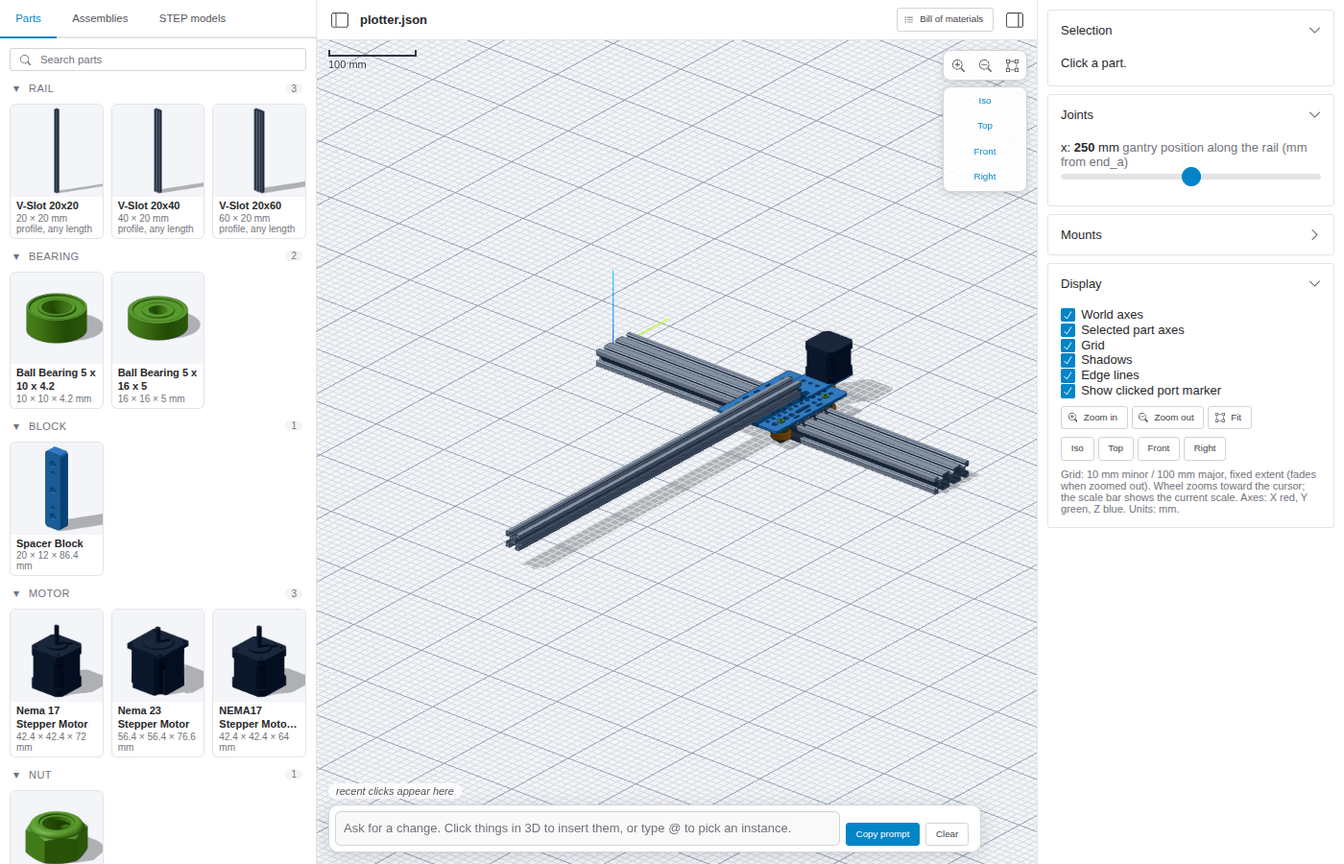
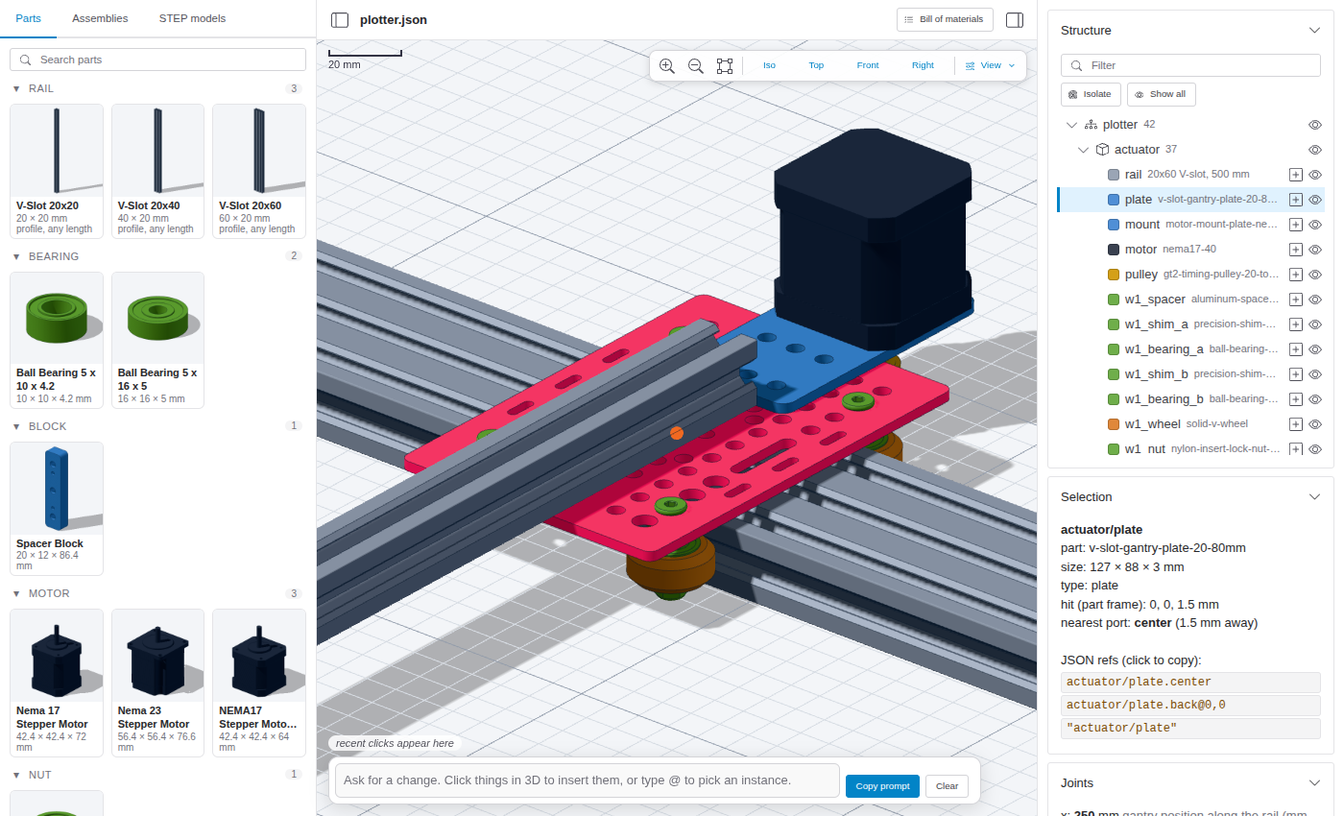
Add assembly structure tree and move display options to the 3D toolbar
- Right panel: Structure tree (assembly > sub-assemblies > instances,
  fasteners grouped) synced with 3D selection and hover, with hide /
  isolate / filter and insert-in-prompt. The panel now holds only
  Structure, Selection, Joints and Mounts.
- 3D view toolbar: zoom, fit, view presets and a View dropdown with the
  display toggles (saved in localStorage).
- README screenshot refreshed; HANDOFF notes on the SCRIBE pen lifter
  and updated next steps.

diff --git a/viewer/buildmode.js b/viewer/buildmode.js
@@ -47,7 +47,10 @@ const edgeTol = () => Math.max(4, Math.min(10, 6 / camera.zoom)), portTol = () =
       $('b-err').textContent = 'ERROR: ' + e.message; if (!(e instanceof AsmError)) console.error(e); return;
     }
     const names = res.instances.map((i) => i.name).join('|');
+    let reselect = null;
     if (rebuild.names !== names || !meshes.size) {
+      reselect = selected?.userData.name || null; // keep the selection where the name still exists
+      snapshotTree();
       for (const m of [...group.children]) group.remove(m);
       meshes = new Map();
       for (const inst of res.instances) {
@@ -56,10 +59,13 @@ const edgeTol = () => Math.max(4, Math.min(10, 6 / camera.zoom)), portTol = () =
         group.add(mesh); meshes.set(inst.name, mesh);
       }
       rebuild.names = names; selected = null;
+      for (const n of [...hidden]) if (!meshes.has(n)) hidden.delete(n);
+      buildTree(); applyVisibility();
     }
     for (const inst of res.instances) { const m = meshes.get(inst.name); m.matrix.copy(toMatrix(inst.M)); m.matrixWorldNeedsUpdate = true; }
     group.updateMatrixWorld(true);
     renderPanel(); hover(null); prompt.refresh();
+    if (reselect && meshes.has(reselect)) show({ object: meshes.get(reselect), point: centerOf(res.instances.find((i) => i.name === reselect)) }, true);
     const box = new THREE.Box3().setFromObject(group); fitScene(box);
     if (!keepCamera || framed !== file) { frame(box); framed = file; }
   }
@@ -129,8 +135,8 @@ const edgeTol = () => Math.max(4, Math.min(10, 6 / camera.zoom)), portTol = () =
   }
   function show(hit, silent) {
     if (selected) selected.material = matFor(res.instances.find((i) => i.name === selected.userData.name).def.type);
-    if (!hit) { selected = null; marker.visible = false; edgeLine.visible = false; $('info').textContent = 'Click a part.'; return; }
-    selected = hit.object; selected.material = highlight;
+    if (!hit) { selected = null; marker.visible = false; edgeLine.visible = false; $('info').textContent = 'Click a part.'; treeSelect(null); return; }
+    selected = hit.object; selected.material = highlight; treeSelect(selected.userData.name);
     const d = describeHit(hit), copy = (s) => `<div class="copy" title="click to copy">${s}</div>`;
     $('info').innerHTML = `<b>${d.name}</b><br>part: ${d.def.slug}<br>size: ${dimsText(d.def.dims)}<br>type: ${d.def.type}${d.def.profile ? ` (${d.def.profile}${d.def.length ? `, parametric, cut ${d.def.length} mm` : ' library mesh'})` : ''}<br>` +
       `hit (part frame): ${d.p.map(f2).join(', ')} mm<br>` +
@@ -183,6 +189,7 @@ const edgeTol = () => Math.max(4, Math.min(10, 6 / camera.zoom)), portTol = () =
     if (r.edge) { hoverLine.geometry.setFromPoints(r.edge.map((q) => new THREE.Vector3(...q))); hoverLine.visible = true; }
     else if (r.point) { hoverMarker.position.set(...r.point); hoverMarker.scale.setScalar(2.2); hoverMarker.visible = true; }
   }
+  const centerOf = (inst) => { const { min, max } = inst.def.bbox || { min: [0, 0, 0], max: [0, 0, 0] }; return new THREE.Vector3(...m4.point(inst.M, [0, 1, 2].map((k) => (min[k] + max[k]) / 2))); };
   const flyTo = (box) => stage.flyTo(box, 40);
   function focus(ref) {
     const r = resolveRef(ref); if (!r) return;
@@ -191,8 +198,7 @@ const edgeTol = () => Math.max(4, Math.min(10, 6 / camera.zoom)), portTol = () =
     else if (r.point) box.expandByPoint(new THREE.Vector3(...r.point));
     else box.setFromObject(r.mesh);
     if (r.point) box.expandByScalar(15);
-    let pt = r.point ? new THREE.Vector3(...r.point) : box.getCenter(new THREE.Vector3());
-    if (!r.point) { const { min, max } = r.inst.def.bbox || { min: [0, 0, 0], max: [0, 0, 0] }; pt = new THREE.Vector3(...m4.point(r.inst.M, [0, 1, 2].map((k) => (min[k] + max[k]) / 2))); }
+    const pt = r.point ? new THREE.Vector3(...r.point) : centerOf(r.inst);
     hover(null);
     show({ object: r.mesh, point: pt }, true);
     window.__viewer.lastFocus = ref;
@@ -200,7 +206,7 @@ const edgeTol = () => Math.max(4, Math.min(10, 6 / camera.zoom)), portTol = () =
   }
   const prompt = createPrompt({ $, getResult: () => res, getFile: () => file, hooks: { resolve: resolveRef, hover, focus } });
   const ray = new THREE.Raycaster();
-  const hitAt = (cx, cy) => { ray.setFromCamera(ndc(cx, cy), camera); return ray.intersectObjects(group.children, false)[0]; };
+  const hitAt = (cx, cy) => { ray.setFromCamera(ndc(cx, cy), camera); return ray.intersectObjects(group.children.filter((m) => m.visible), false)[0]; }; // hidden pieces are not pickable
   addEventListener('pointermove', (e) => {
     const tip = $('tip');
     if (!active || e.target !== renderer.domElement || !res) { tip.hidden = true; return; }
@@ -208,6 +214,108 @@ const edgeTol = () => Math.max(4, Math.min(10, 6 / camera.zoom)), portTol = () =
     if (!h) { tip.hidden = true; return; }
     tip.hidden = false; tip.textContent = h.object.userData.name; tip.style.left = e.clientX + 12 + 'px'; tip.style.top = e.clientY + 12 + 'px';
   });
+
+  // ---- Structure tree: root assembly > sub-assemblies > instances (generated fasteners in a collapsed group) ----
+  const hidden = new Set();          // hidden instance names (kept across live reloads where the name still exists)
+  const expState = new Map();        // tree key -> expanded
+  const items = new Map(), groupNames = new Map(); // key -> sl-tree-item ; group key -> instance names below it
+  const treeEl = $('b-tree'), esc = (s) => String(s).replace(/[&<>"]/g, (c) => ({ '&': '&amp;', '<': '&lt;', '>': '&gt;', '"': '&quot;' }[c]));
+  let syncing = false, hoverKey = null;
+  const hex = (t) => '#' + new THREE.Color(colorOfType(t)).getHexString();
+  const detailOf = (d) => (d.profile ? `${d.profile} V-slot, ${+(d.length ?? d.dims[2]).toFixed(1)} mm` : d.slug);
+  const ACT = (act, icon, tip) => `<sl-icon-button name="${icon}" data-act="${act}" label="${tip}" title="${tip}"></sl-icon-button>`;
+  function snapshotTree() { if (treeEl.dataset.filtering) return; for (const [k, it] of items) if (it.dataset.group) expState.set(k, it.expanded); }
+  function buildTree() {
+    items.clear(); groupNames.clear();
+    const mountNames = new Set(res.mounts.map((m) => m.name));
+    const root = { key: 'g:root', label: file.replace(/\.json$/, ''), kids: [], root: true }, fast = { key: 'g:fasteners', label: 'Fasteners', kids: [], dflt: false, note: 'generated screws and tee nuts' };
+    const groups = new Map([['', root]]);
+    const groupAt = (path) => { // path of segments
+      const k = path.join('/'); if (groups.has(k)) return groups.get(k);
+      const parent = groupAt(path.slice(0, -1)), g = { key: 'g:' + k, label: path[path.length - 1], kids: [] };
+      groups.set(k, g); parent.kids.push(g); return g;
+    };
+    for (const inst of res.instances) {
+      const seg = inst.name.split('/'), dir = seg.slice(0, -1).join('/');
+      (mountNames.has(dir) ? fast : groupAt(seg.slice(0, -1))).kids.push({ key: inst.name, inst, label: seg[seg.length - 1] });
+    }
+    if (fast.kids.length) root.kids.push(fast);
+    const names = (n) => (n.inst ? [n.key] : n.kids.flatMap(names));
+    const html = (n) => {
+      if (n.inst) {
+        const d = n.inst.def;
+        return `<sl-tree-item data-key="${esc(n.key)}" data-leaf="1"><span class="tn"><i class="sw" style="background:${hex(d.type)}"></i><span class="nm">${esc(n.label)}</span><span class="dt">${esc(detailOf(d))}</span><span class="ta">${ACT('ins', 'plus-square', 'Insert in prompt')}${ACT('eye', 'eye', 'Hide / show (shift-click: isolate)')}</span></span></sl-tree-item>`;
+      }
+      groupNames.set(n.key, names(n));
+      const open = expState.has(n.key) ? expState.get(n.key) : n.dflt !== false;
+      return `<sl-tree-item data-key="${n.key}" data-group="1" ${open ? 'expanded' : ''}><span class="tn"><sl-icon name="${n.root ? 'diagram-3' : 'box'}"></sl-icon><span class="nm">${esc(n.label)}</span><span class="dt">${n.note ? esc(n.note) + ', ' : ''}${groupNames.get(n.key).length}</span><span class="ta">${ACT('eye', 'eye', 'Hide / show this group (shift-click: isolate)')}</span></span>${n.kids.map(html).join('')}</sl-tree-item>`;
+    };
+    syncing = true;
+    treeEl.innerHTML = html(root);
+    for (const it of treeEl.querySelectorAll('sl-tree-item')) items.set(it.dataset.key, it);
+    syncing = false;
+    filterTree();
+  }
+  function applyVisibility() {
+    for (const [n, m] of meshes) m.visible = !hidden.has(n);
+    stage.refreshShadows();
+    for (const [k, it] of items) {
+      const ns = it.dataset.leaf ? [k] : groupNames.get(k) || [], off = ns.length > 0 && ns.every((n) => hidden.has(n));
+      const some = ns.some((n) => hidden.has(n)), b = it.querySelector(':scope > .tn [data-act="eye"]');
+      it.classList.toggle('off', off); it.classList.toggle('part-off', !off && some);
+      if (b) b.name = off ? 'eye-slash' : 'eye';
+    }
+  }
+  const namesOf = (key) => (key.startsWith('g:') ? groupNames.get(key) || [] : [key]);
+  function setHidden(key, hide) { for (const n of namesOf(key)) hide ? hidden.add(n) : hidden.delete(n); applyVisibility(); }
+  function isolate(key) { hidden.clear(); const keep = new Set(namesOf(key)); for (const n of meshes.keys()) if (!keep.has(n)) hidden.add(n); applyVisibility(); }
+  function treeSelect(name) {
+    const it = name ? items.get(name) : null;
+    syncing = true;
+    for (const x of treeEl.querySelectorAll('sl-tree-item[selected]')) if (x !== it) x.selected = false;
+    if (it) {
+      if (it.hidden) { $('tree-q').value = ''; filterTree(); }
+      for (let p = it.parentElement; p && p.tagName === 'SL-TREE-ITEM'; p = p.parentElement) p.expanded = true;
+      it.selected = true;
+      requestAnimationFrame(() => it.scrollIntoView({ block: 'nearest' }));
+    }
+    setTimeout(() => (syncing = false), 0);
+  }
+  function filterTree() {
+    const q = $('tree-q').value.trim().toLowerCase();
+    if (q && !treeEl.dataset.filtering) { snapshotTree(); treeEl.dataset.filtering = '1'; }
+    const lastFiltering = !!q;
+    const vis = (it) => { // returns true when it (or a descendant) matches
+      const kids = [...it.querySelectorAll(':scope > sl-tree-item')];
+      const self = !q || (it.dataset.key + ' ' + it.textContent).toLowerCase().includes(q);
+      const any = kids.map(vis).some(Boolean);
+      it.hidden = !(self || any);
+      if (it.dataset.group && q) it.expanded = any;
+      return self || any;
+    };
+    syncing = true;
+    treeEl.querySelectorAll(':scope > sl-tree-item').forEach(vis);
+    if (!lastFiltering && treeEl.dataset.filtering) { delete treeEl.dataset.filtering; for (const [k, it] of items) if (it.dataset.group && expState.has(k)) it.expanded = expState.get(k); }
+    setTimeout(() => (syncing = false), 0);
+  }
+  $('tree-q').addEventListener('sl-input', filterTree);
+  const selName = () => selected?.userData.name || null;
+  $('tree-iso').addEventListener('click', () => { const n = selName(); if (n) isolate(n); });
+  $('tree-all').addEventListener('click', () => { hidden.clear(); applyVisibility(); });
+  const keyOf = (e) => e.target.closest?.('sl-tree-item')?.dataset.key;
+  treeEl.addEventListener('click', (e) => { // item action buttons (capture: the tree must not treat them as a row click)
+    const b = e.target.closest?.('[data-act]'); if (!b) return;
+    e.stopPropagation();
+    const key = keyOf(e), n = namesOf(key);
+    if (b.dataset.act === 'eye') { if (e.shiftKey) isolate(key); else setHidden(key, !n.every((x) => hidden.has(x))); }
+    else if (b.dataset.act === 'ins') { const inst = res.instances.find((i) => i.name === key); if (inst) { prompt.insertChip({ ref: key, label: short(key) }); ctx.afterTreePick?.(); } }
+  }, true);
+  treeEl.addEventListener('sl-selection-change', (e) => {
+    const it = e.detail.selection[0]; if (syncing || !it?.dataset.leaf || it.dataset.key === selName()) return;
+    focus(it.dataset.key); ctx.afterTreePick?.(); // same code path as a chip click: select, info, camera fly
+  });
+  treeEl.addEventListener('mouseover', (e) => { const k = e.target.closest?.('sl-tree-item[data-leaf]')?.dataset.key || null; if (k !== hoverKey) { hoverKey = k; hover(k); } });
+  treeEl.addEventListener('mouseleave', () => { hoverKey = null; hover(null); });
 
   let active = false;
   async function enter(initialFile) {
@@ -218,6 +326,7 @@ const edgeTol = () => Math.max(4, Math.min(10, 6 / camera.zoom)), portTol = () =
   function leave() { hover(null); active = false; $('pr-dock').hidden = true; scene.remove(group, marker, edgeLine, hoverMarker, hoverLine); $('tip').hidden = true; }
   async function open(f) {
     file = f; overrides = {}; renderPanel.sig = null; rebuild.names = null; framed = null;
+    selected = null; hidden.clear(); expState.clear(); marker.visible = edgeLine.visible = false; $('info').textContent = 'Click a part.';
     asm = await loader.assembly(f).catch((e) => { $('b-err').textContent = 'ERROR: ' + e.message; return null; });
     if (!asm) return;
     await rebuild(false);

diff --git a/viewer/index.html b/viewer/index.html
@@ -47,13 +47,28 @@
     #partbar b { margin-right: 2px; } #pb-lens { display: flex; flex-wrap: wrap; gap: 4px; }
     #pb-custom { width: 110px; }
 
-    /* zoom overlay + scale bar (3D view) */
-    #zoomctl { position: absolute; right: 10px; top: 10px; z-index: 3; display: flex; flex-direction: column; gap: 6px; align-items: stretch; }
-    .zbox { display: flex; gap: 2px; background: #fffe; border: 1px solid var(--sl-color-neutral-300); border-radius: 8px; padding: 2px; box-shadow: 0 2px 8px #0002; }
-    #zoomctl .views { flex-direction: column; }
+    /* toolbar overlay (3D view, top-right): zoom, views, View dropdown */
+    #zoomctl { position: absolute; right: 10px; top: 10px; z-index: 3; display: flex; flex-wrap: wrap; justify-content: flex-end; align-items: center; gap: 0 1px; max-width: calc(100% - 20px); }
+    .zbox { background: #fffe; border: 1px solid var(--sl-color-neutral-300); border-radius: 8px; padding: 1px 3px; box-shadow: 0 2px 8px #0002; }
+    #zoomctl sl-icon-button { font-size: 16px; } #zoomctl sl-button::part(base) { padding: 0 6px; }
+    .zsep { width: 1px; align-self: stretch; margin: 5px 3px; background: var(--sl-color-neutral-300); }
+    #view-menu { display: flex; flex-direction: column; align-items: flex-start; gap: 6px; background: #fff; border: 1px solid var(--sl-color-neutral-300); border-radius: 8px; box-shadow: 0 4px 18px #0003; padding: 10px 12px; width: 230px; }
     #scalebar { position: absolute; left: 12px; top: 10px; z-index: 2; pointer-events: none; font-size: 11px; color: #334; display: flex; flex-direction: column; gap: 2px; text-shadow: 0 0 3px #fff, 0 0 3px #fff; }
+    @media (max-width: 900px) { #scalebar { top: 56px; } }
     #sb-line { height: 7px; border: 2px solid #334; border-top: none; box-sizing: border-box; }
-    .vrow { display: flex; flex-wrap: wrap; gap: 4px; margin: 4px 0 8px; }
+    /* structure tree */
+    #tree-head { display: flex; flex-wrap: wrap; gap: 6px; margin-bottom: 6px; } #tree-head sl-input { flex: 1 1 100%; }
+    #tree-wrap { max-height: 42vh; overflow: auto; margin: 0 -4px; }
+    #b-tree { --indent-size: 12px; }
+    #b-tree sl-tree-item::part(label) { flex: 1; min-width: 0; }
+    #b-tree sl-tree-item::part(item--selected) { background: var(--sl-color-primary-100); border-inline-start-color: var(--sl-color-primary-600); }
+    .tn { display: flex; align-items: center; gap: 6px; min-width: 0; flex: 1; }
+    .tn .nm { white-space: nowrap; overflow: hidden; text-overflow: ellipsis; flex: 0 1 auto; }
+    .tn .dt { color: var(--sl-color-neutral-500); font-size: 11px; white-space: nowrap; overflow: hidden; text-overflow: ellipsis; flex: 1 1 0; min-width: 0; }
+    .tn .sw { width: 10px; height: 10px; border-radius: 3px; flex: none; border: 1px solid #0003; }
+    .tn .ta { margin-left: auto; display: flex; flex: none; }
+    .tn .ta sl-icon-button { font-size: 14px; } .tn .ta sl-icon-button::part(base) { padding: 2px 3px; }
+    sl-tree-item.off > .tn { opacity: .4; } sl-tree-item.part-off > .tn .ta [data-act="eye"] { color: var(--sl-color-warning-600); }
 
     /* panel */
     #panel sl-details { margin-bottom: 8px; }
@@ -61,11 +76,11 @@
     #info { line-height: 1.5; word-break: break-word; }
     #info table { border-collapse: collapse; } #info td { padding: 0 6px 0 0; font-size: 12px; vertical-align: top; }
     .copy { background: var(--sl-color-neutral-100); border: 1px solid var(--sl-color-neutral-200); padding: 1px 5px; border-radius: 3px; cursor: pointer; user-select: all; display: block; margin: 2px 0; font-family: var(--sl-font-mono, monospace); font-size: 12px; color: #7a4a00; }
-    #b-err { position: absolute; left: 8px; right: 64px; top: 44px; z-index: 3; color: #a1122a; background: #fdecef; border: 1px solid #f3a6b3; border-radius: 6px; padding: 6px 10px; white-space: pre-wrap; word-break: break-word; font-size: 12px; }
+    #b-err { position: absolute; left: 8px; right: 8px; top: 56px; z-index: 3; color: #a1122a; background: #fdecef; border: 1px solid #f3a6b3; border-radius: 6px; padding: 6px 10px; white-space: pre-wrap; word-break: break-word; font-size: 12px; }
     #b-err:empty { display: none; }
     .j { margin: 2px 0 10px; }
     #b-mounts { font-size: 12px; line-height: 1.4; word-break: break-word; }
-    #hint { font-size: 11px; color: var(--sl-color-neutral-500); margin-top: 6px; }
+    #hint { align-self: stretch; font-size: 11px; color: var(--sl-color-neutral-500); margin-top: 6px; }
     #b-bom table { border-collapse: collapse; font-size: 13px; } #b-bom td { padding: 2px 10px 2px 0; vertical-align: top; } #b-bom td:first-child { white-space: nowrap; }
     #bom-dlg::part(panel) { width: min(640px, 96vw); }
     #tip { position: fixed; pointer-events: none; background: #1d2430e6; color: #fff; padding: 3px 7px; border-radius: 3px; font-size: 12px; z-index: 5; }
@@ -95,7 +110,7 @@
     #pr-status { font-size: 12px; }
 
     /* snap mode: canvas only */
-    html.snap #browser, html.snap #panel, html.snap #bar, html.snap #partbar, html.snap #zoomctl, html.snap #scalebar, html.snap #pr-dock, html.snap #b-err, html.snap #tip { display: none !important; }
+    html.snap #browser, html.snap #panel, html.snap #view-menu, html.snap #bar, html.snap #partbar, html.snap #zoomctl, html.snap #scalebar, html.snap #pr-dock, html.snap #b-err, html.snap #tip { display: none !important; }
     html.snap body, html.snap #app { background: #f3f5f8; }
   </style>
 </head>
@@ -136,9 +151,27 @@
       <div id="stage">
         <div id="canvas"></div>
         <div id="scalebar"><div id="sb-line"></div><span id="sb-text"></span></div>
-        <div id="zoomctl">
-          <div class="zbox"><sl-icon-button name="zoom-in" label="Zoom in" data-zoom="in"></sl-icon-button><sl-icon-button name="zoom-out" label="Zoom out" data-zoom="out"></sl-icon-button><sl-icon-button name="bounding-box" label="Fit (frame the item)" data-zoom="fit"></sl-icon-button></div>
-          <div class="zbox views"><sl-button size="small" variant="text" data-view="iso">Iso</sl-button><sl-button size="small" variant="text" data-view="top">Top</sl-button><sl-button size="small" variant="text" data-view="front">Front</sl-button><sl-button size="small" variant="text" data-view="right">Right</sl-button></div>
+        <div id="zoomctl" class="zbox">
+          <sl-icon-button name="zoom-in" label="Zoom in" title="Zoom in" data-zoom="in"></sl-icon-button>
+          <sl-icon-button name="zoom-out" label="Zoom out" title="Zoom out" data-zoom="out"></sl-icon-button>
+          <sl-icon-button name="bounding-box" label="Fit" title="Fit (frame the item)" data-zoom="fit"></sl-icon-button>
+          <span class="zsep"></span>
+          <sl-button size="small" variant="text" data-view="iso" title="Isometric view">Iso</sl-button><sl-button size="small" variant="text" data-view="top" title="Top view">Top</sl-button><sl-button size="small" variant="text" data-view="front" title="Front view">Front</sl-button><sl-button size="small" variant="text" data-view="right" title="Right view">Right</sl-button>
+          <span class="zsep"></span>
+          <sl-dropdown id="dd-view" placement="bottom-end" distance="8" stay-open-on-select hoist>
+            <sl-button slot="trigger" size="small" variant="text" caret title="Display options"><sl-icon slot="prefix" name="sliders"></sl-icon>View</sl-button>
+            <div id="view-menu">
+              <sl-checkbox id="t-world" checked>World axes</sl-checkbox>
+              <sl-checkbox id="t-part" checked>Selected part axes</sl-checkbox>
+              <sl-checkbox id="t-grid" checked>Grid</sl-checkbox>
+              <sl-checkbox id="t-shadows" checked>Shadows</sl-checkbox>
+              <sl-checkbox id="t-edges" checked>Edge lines</sl-checkbox>
+              <sl-checkbox id="b-ports" checked data-mode="build">Clicked port marker</sl-checkbox>
+              <sl-checkbox id="t-ports" checked data-mode="part">Port frames</sl-checkbox>
+              <sl-checkbox id="t-labels" checked data-mode="part">Port labels</sl-checkbox>
+              <div id="hint"></div>
+            </div>
+          </sl-dropdown>
         </div>
         <div id="b-err"></div>
         <div id="pr-dock" hidden>
@@ -155,24 +188,17 @@
     </main>
 
     <aside id="panel" class="side" data-side><div id="panel-body">
+      <sl-details id="d-struct" summary="Structure" open data-mode="build">
+        <div id="tree-head">
+          <sl-input id="tree-q" size="small" placeholder="Filter" clearable><sl-icon slot="prefix" name="search"></sl-icon></sl-input>
+          <sl-button id="tree-iso" size="small" title="Show only the selected instance"><sl-icon slot="prefix" name="bullseye"></sl-icon>Isolate</sl-button>
+          <sl-button id="tree-all" size="small" title="Show every instance"><sl-icon slot="prefix" name="eye"></sl-icon>Show all</sl-button>
+        </div>
+        <div id="tree-wrap"><sl-tree id="b-tree" selection="leaf"></sl-tree></div>
+      </sl-details>
       <sl-details id="d-sel" summary="Selection" open><div id="info">Click a part.</div></sl-details>
       <sl-details id="d-joints" summary="Joints" open data-mode="build"><div id="b-sliders"></div></sl-details>
       <sl-details id="d-mounts" summary="Mounts" data-mode="build"><div id="b-mounts"></div></sl-details>
-      <sl-details id="d-ports" summary="Ports" open data-mode="part">
-        <sl-checkbox id="t-ports" checked>Port frames</sl-checkbox><br>
-        <sl-checkbox id="t-labels" checked>Port labels</sl-checkbox>
-      </sl-details>
-      <sl-details id="d-disp" summary="Display" open>
-        <sl-checkbox id="t-world" checked>World axes</sl-checkbox><br>
-        <sl-checkbox id="t-part" checked>Selected part axes</sl-checkbox><br>
-        <sl-checkbox id="t-grid" checked>Grid</sl-checkbox><br>
-        <sl-checkbox id="t-shadows" checked>Shadows</sl-checkbox><br>
-        <sl-checkbox id="t-edges" checked>Edge lines</sl-checkbox><br>
-        <sl-checkbox id="b-ports" checked data-mode="build">Show clicked port marker</sl-checkbox>
-        <div class="vrow" style="margin-top:8px"><sl-button size="small" data-zoom="in"><sl-icon slot="prefix" name="zoom-in"></sl-icon>Zoom in</sl-button><sl-button size="small" data-zoom="out"><sl-icon slot="prefix" name="zoom-out"></sl-icon>Zoom out</sl-button><sl-button size="small" data-zoom="fit"><sl-icon slot="prefix" name="bounding-box"></sl-icon>Fit</sl-button></div>
-        <div class="vrow"><sl-button size="small" data-view="iso">Iso</sl-button><sl-button size="small" data-view="top">Top</sl-button><sl-button size="small" data-view="front">Front</sl-button><sl-button size="small" data-view="right">Right</sl-button></div>
-        <div id="hint"></div>
-      </sl-details>
     </div></aside>
   </div>
 

diff --git a/viewer/main.js b/viewer/main.js
@@ -14,6 +14,9 @@ import '@shoelace-style/shoelace/dist/components/dialog/dialog.js';
 import '@shoelace-style/shoelace/dist/components/drawer/drawer.js';
 import '@shoelace-style/shoelace/dist/components/range/range.js';
 import '@shoelace-style/shoelace/dist/components/checkbox/checkbox.js';
+import '@shoelace-style/shoelace/dist/components/tree/tree.js';
+import '@shoelace-style/shoelace/dist/components/tree-item/tree-item.js';
+import '@shoelace-style/shoelace/dist/components/dropdown/dropdown.js';
 import * as THREE from 'three';
 import { GLTFLoader } from 'three/examples/jsm/loaders/GLTFLoader.js';
 import modelNames from 'virtual:models';
@@ -161,7 +164,7 @@ function enter(m) {
 }
 async function openBuild(file) {
   enter('build'); ++seq;
-  build ||= createBuild({ $, scene, camera, renderer, controls, stage, fitScene, frame, colorOfType, ndc, onOpen: (f) => setCurrent('asm', f, f) });
+  build ||= createBuild({ $, scene, camera, renderer, controls, stage, fitScene, frame, colorOfType, ndc, afterTreePick: () => { if (mq.matches) $('dr-panel').hide(); }, onOpen: (f) => setCurrent('asm', f, f) });
   await build.enter(file);
 }
 
@@ -331,8 +334,16 @@ on('t-part', (v) => (partAxes.visible = v && !!selected));
 on('t-grid', (v) => stage.setGrid(v));
 on('t-shadows', (v) => stage.setShadows(v));
 on('t-edges', (v) => stage.setEdges(v));
+// the toggles are remembered (not in snap mode, which sets them itself)
+const VKEY = 'ob_view_v1', VIEW_IDS = ['t-world', 't-part', 't-grid', 't-shadows', 't-edges', 'b-ports', 't-ports', 't-labels'];
+const viewState = (() => { try { return JSON.parse(localStorage.getItem(VKEY)) || {}; } catch (e) { return {}; } })();
+if (!SNAP) for (const id of VIEW_IDS) {
+  const el = $(id);
+  if (typeof viewState[id] === 'boolean') { el.checked = viewState[id]; el.dispatchEvent(new CustomEvent('sl-change')); }
+  el.addEventListener('sl-change', () => { viewState[id] = el.checked; try { localStorage.setItem(VKEY, JSON.stringify(viewState)); } catch (e) { /* private mode */ } });
+}
 
-// zoom / fit / view presets: overlay in the 3D view and a mirror in the Display section
+// zoom / fit / view presets: toolbar overlay in the 3D view
 document.addEventListener('click', (e) => {
   const z = e.target.closest?.('[data-zoom]'), v = e.target.closest?.('[data-view]');
   if (z) { const a = z.dataset.zoom; if (a === 'in') stage.zoomBy(1.4); else if (a === 'out') stage.zoomBy(1 / 1.4); else if (a === 'fit') { const b = curBox(); if (b) stage.fit(b); } }

diff --git a/HANDOFF.md b/HANDOFF.md
@@ -58,8 +58,8 @@ UI is Shoelace (`@shoelace-style/shoelace` 2.20.1, light theme, cherry-picked im
 
 - **Left: browser** (collapsible; a drawer under 900 px). Tabs **Parts** / **Assemblies** (`assemblies/*.json`) / **STEP models** (converted `models/`), each with a search box and thumbnail cards in collapsible groups (state in localStorage `ob_groups_v1`; a search expands the groups with matches). Card = thumb, name, size (`16 × 15.9 × 5 mm`). Rails = one card per parametric profile (20x20, 20x40, 20x60); opening one shows a length bar (250/500/750/1000/1500 + custom mm) above the 3D view. The fixed-length STEP rail meshes get no card (assemblies still use them; `#parts/<slug>` still opens them). Missing thumb -> placeholder icon.
 - **Centre: 3D view** with a slim top bar (browser toggle, title, **Bill of materials** button for assemblies, panel toggle). The prompt box sits at the bottom of the 3D view (assemblies only).
-- **Right: details panel** (collapsible; a drawer when narrow): Selection (copy-ready refs), Joints (sl-range), Mounts, Ports (parts), Display toggles. The BOM is a modal (sl-dialog) with "Copy as text". Solve errors show as a red banner over the 3D view.
-- **3D view** (`viewer/stage.js`): **orthographic only**. The frustum is in pixels, so `camera.zoom` = px per mm; near/far are generous and the camera sits at a constant 5000 mm. Fixed world-spaced grid: 10 mm minor / 100 mm major, +-1500 mm around the world origin (only Z follows the item; lines fade when too dense). Overlay top-right: zoom in/out, fit, Iso/Top/Front/Right (mirrored in the Display section); top-left: scale bar. Wheel zooms smoothly toward the cursor (own handler; OrbitControls only keeps touch pinch).
+- **Right: details panel** (collapsible; a drawer when narrow), assembly and part info only: **Structure** (assemblies), Selection (copy-ready refs), Joints (sl-range), Mounts. No display options here. The BOM is a modal (sl-dialog) with "Copy as text". Solve errors show as a red banner over the 3D view.
+- **3D view** (`viewer/stage.js`): **orthographic only**. The frustum is in pixels, so `camera.zoom` = px per mm; near/far are generous and the camera sits at a constant 5000 mm. Fixed world-spaced grid: 10 mm minor / 100 mm major, +-1500 mm around the world origin (only Z follows the item; lines fade when too dense). Overlay top-right: one toolbar with zoom in/out, fit, Iso/Top/Front/Right and a **View** `sl-dropdown` holding all display toggles (world axes, selected part axes, grid, shadows, edge lines, clicked port marker (build), port frames/labels (part), the grid hint). Toggle state in localStorage `ob_view_v1` (not applied in snap mode); top-left: scale bar. Wheel zooms smoothly toward the cursor (own handler; OrbitControls only keeps touch pinch).
 - **Shading**: world-fixed key directional light with a PCF-soft shadow map fitted to the item's bounding sphere (`fitScene(box)`), hemisphere + fill lights, NeutralToneMapping, ShadowMaterial ground plane, 30 deg edge-line overlay (Display toggles: Shadows, Edge lines). The shadow map is only re-rendered on `fitScene` (`renderer.shadowMap.autoUpdate=false`); call `stage.refreshShadows()` if you move meshes elsewhere. Materials use polygonOffset so the edge lines sit on the faces.
 - **Parametric rails** render the real library STEP profile stretched in Z (`railGeometry` in `vslot.js`; the library rails are pure extrusions); the simplified generated profile is only the fallback. Ports/picking come from `lib/vslot_ports.js`.
 - Click tolerances (mm in the part frame): plate edge 4, port/hole 5, widened to about 6 / 8 screen px when zoomed out (caps 10 / 12 mm).
@@ -72,6 +72,7 @@ UI is Shoelace (`@shoelace-style/shoelace` 2.20.1, light theme, cherry-picked im
   - Hover a chip -> the piece glows. Click a chip -> select + camera fly.
   - Stale refs turn grey after an edit.
   - Draft in localStorage `ob_prompt_draft_v1`.
+- **Structure tree** (`buildmode.js`, `sl-tree selection="leaf"`): root assembly > sub-assemblies (from the `a/b` instance-name prefix) > instances, with a swatch (part tint), name and part/profile + cut length. Generated mount fasteners (instances under a mount name) sit in a collapsed "Fasteners" group. Row click = `focus(name)` (same path as a chip click: select, info, camera fly); a 3D click calls `treeSelect` (expands parents, scrolls into view). Hover glows the piece. Per row: insert-in-prompt (`prompt.insertChip({ref: name, label})`, same ref as a 3D click) and an eye (shift-click = isolate); header: filter, Isolate (selected instance), Show all. Hidden meshes are `visible=false` and filtered out of `hitAt`, so they cannot be picked. On live reload the tree is rebuilt; expansion (`expState`), hidden set and the selection are kept where the names still exist. Not done: flat tree for STEP models.
 - Resizing the window keeps the zoom (px/mm); `fit` recomputes it.
 - The Z-up camera fix: `camera.up` must be set **before** OrbitControls is created.
 
@@ -135,12 +136,14 @@ Views: iso top bottom front back right left. `--no-axes`, `--no-grid`, `--len <m
 - Y axis / pen carriage: 20x20 V-slot with a mini V gantry, or OpenRail? Pen holder and pen lift (probably a servo) are not designed.
 - Parts added 2026-11-13: mini V wheel plate, V-slot gantry plate 20 mm, 20x20x500 rail, delrin / mini / xtreme V wheels, mini V actuators, NEMA17 belt-driven actuator, and the OpenBuilds SCRIBE pen lifter (3 printed STL parts, type "other", at print origin; Printables, CC BY-NC-ND 4.0: do not redistribute). The Scribe mounts on the OpenBuilds router mount, which is not in the library.
 - Still missing: servo for the pen lift, router mount (or an adapter to the mini V wheel plate).
+- SCRIBE facts: it bolts on the OpenBuilds router mount or an ACRO carriage, not on a rail. Footprint 64 x 90 mm (matches the lift base STL). Pens 8-12 mm. Machines without Z use a servo (our case). Its linear guide is 9 mm x 40 mm long (user, from https://makerworld.com/fr/models/1148964-openbuilds-scribe-pen-lifter); not modelled yet. The A1 ACRO Draw Bot is OpenBuilds' plotter built around it.
 - Design references: refs_design.md.
 - To check later: sag of the cantilevered beam.
 
 ## Next steps
 
-1. Add the `touch` option to mounts/mates. Use it to replace the hand-computed `end_a_at: -21.65`.
-2. Y axis: a carriage running on the beam (mini V gantry + wheels), a second joint `y`, a pen holder.
-3. Belts (parametric GT2), motor mount screws, collision check.
-4. Later: SEND button + queue file; Mistral benchmark.
+1. Y axis: a carriage on the 20x20 beam (mini V wheel plate + delrin mini V wheels, already in the library), a second joint `y`.
+2. Pen lift: SCRIBE on the carriage (an adapter or router mount), plus a servo and the 9x40 mm linear guide.
+3. `touch` option for mounts/mates (1D: along the slide axis only), only if "until it touches" requests keep coming up. It would replace the hand-computed `end_a_at: -21.65`.
+4. Belts (parametric GT2), motor mount screws, collision check.
+5. Later: SEND button + queue file; Mistral benchmark. STEP models have no structure tree.

diff --git a/README.md b/README.md
@@ -27,8 +27,8 @@ Other commands:
 ## Viewer
 
 - **Left:** a browser with Parts, Assemblies and STEP models tabs, with search, thumbnails and collapsible groups.
-- **Centre:** an orthographic 3D view with shadows, zoom/fit/view buttons and a scale bar.
-- **Right:** selection info with copy-ready references, joint sliders, mounts and display options.
+- **Centre:** an orthographic 3D view with shadows and a scale bar. A toolbar at the top right holds zoom/fit, Iso/Top/Front/Right and a **View** dropdown (axes, grid, shadows, edge lines, port markers; remembered in localStorage).
+- **Right:** the assembly and part info. **Structure** tree (assembly > sub-assemblies > instances, with hide/isolate, filter and insert-in-prompt; synced with 3D clicks and hover), selection info with copy-ready references, joint sliders and mounts.
 - **Bottom:** a prompt box. Click parts, faces, edges or holes in 3D to insert them as chips, then copy the prompt into Claude Code.
 
 | Plotter (snapshot tool) | Bill of materials |
